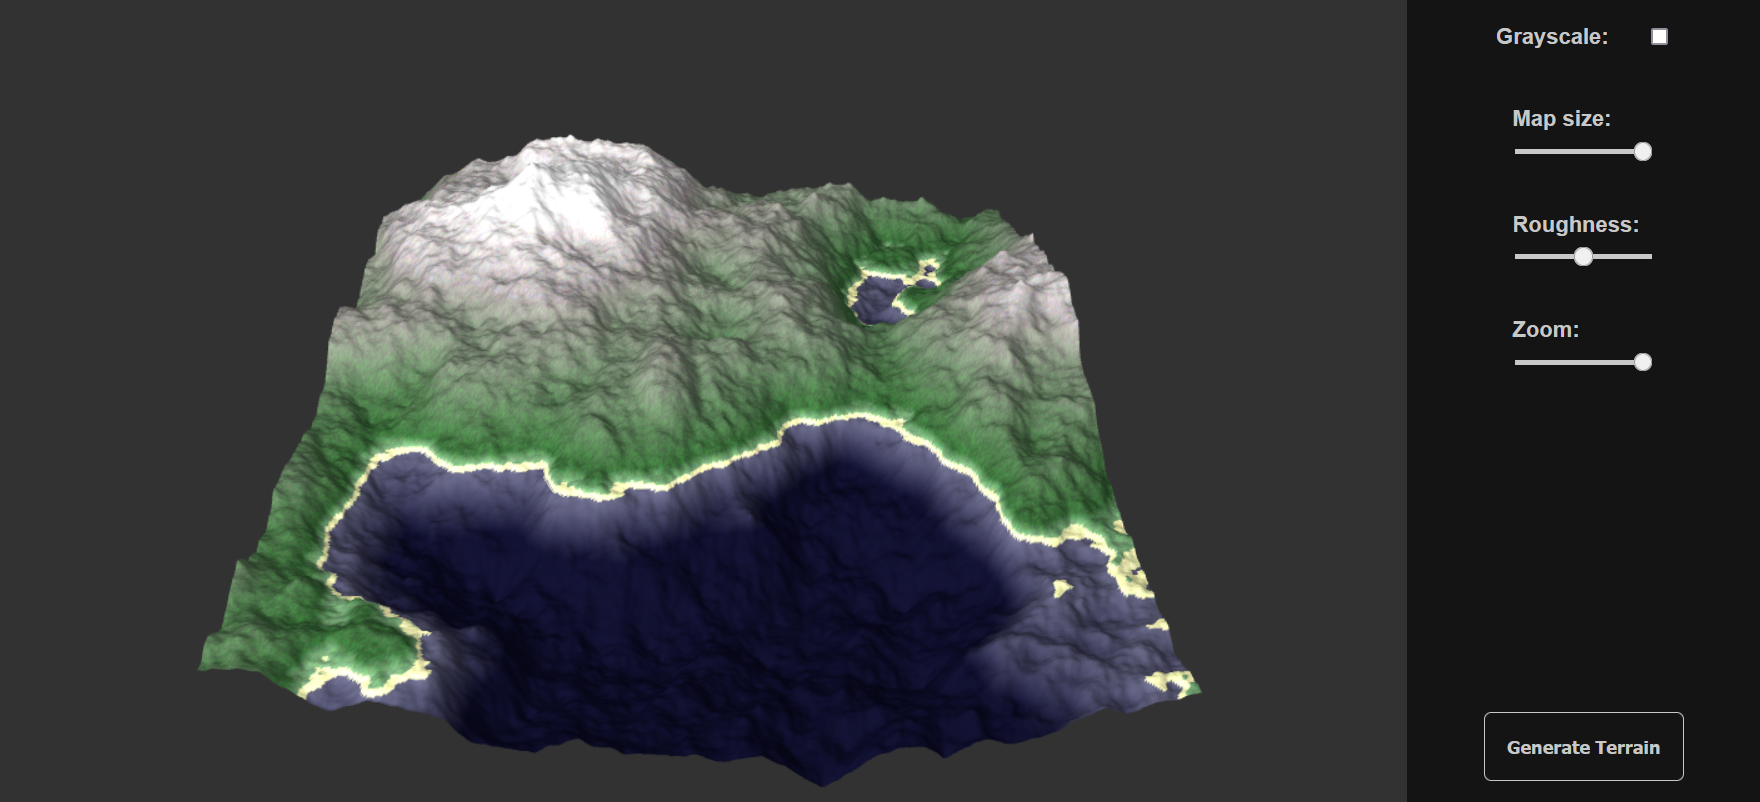
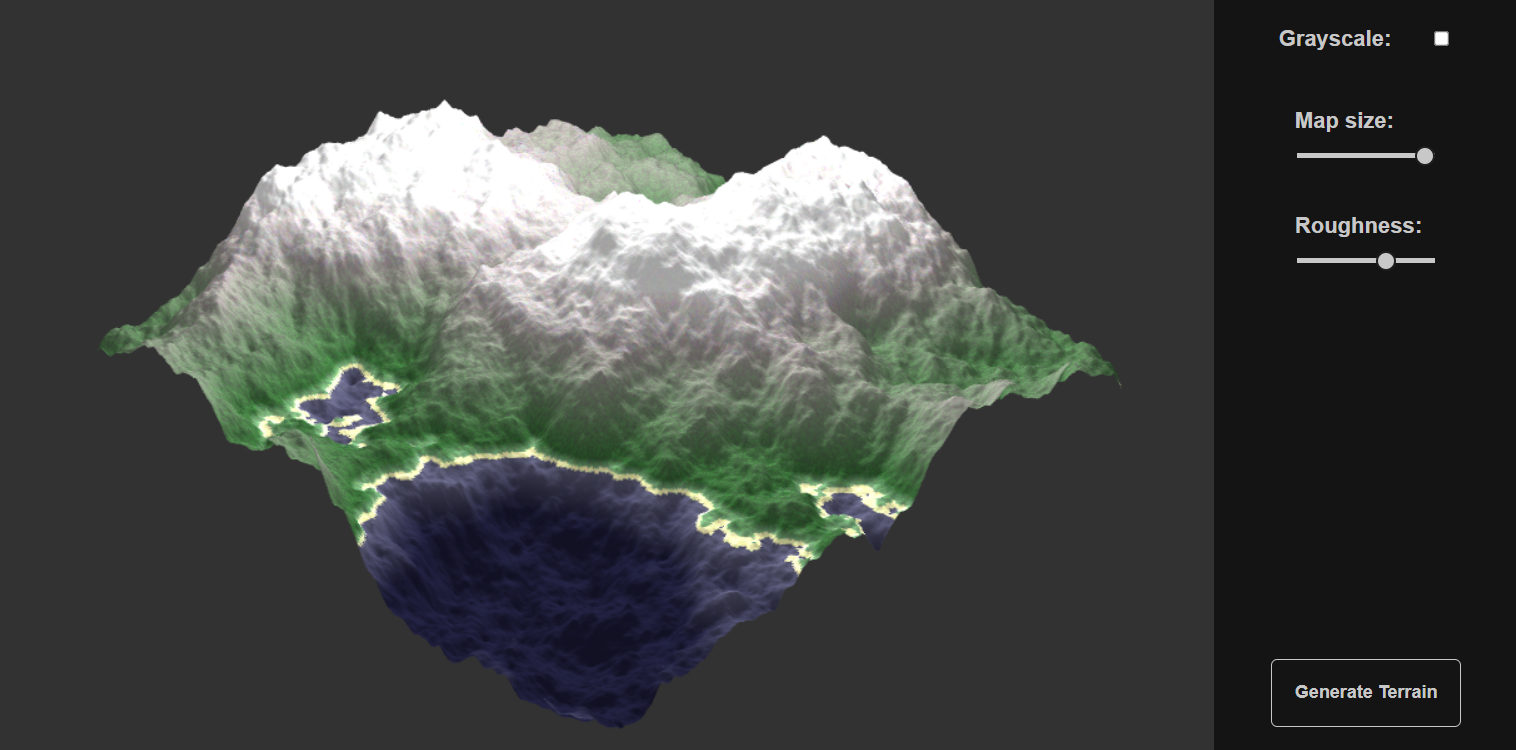
Add OrbitControls, changes to color and lighting

diff --git a/src/Components/Canvas.js b/src/Components/Canvas.js
@@ -2,14 +2,16 @@
 
 import React, {useState, useEffect, useRef} from 'react';
 import * as THREE from 'three';
+import { OrbitControls } from "three/examples/jsm/controls/OrbitControls";
 
 import Controls from './Controls';
 import Loading from './Loading';
 
-let light = new THREE.PointLight(0xFFFFFF, 1, 100000);
-light.position.set(290, 250, 690);
+let light = new THREE.PointLight(0xFFFFFF, 0.8, 0, 2);
+light.position.set(300, 100, 0);
 light.castShadow = true;
-let ambientLight = new THREE.AmbientLight((0xcccccc));
+
+let ambientLight = new THREE.AmbientLight((0xEEEEEE));
 
 let scene = new THREE.Scene();
 scene.add(light);
@@ -22,25 +24,19 @@ export default function Canvas(props) {
 
   let mount = useRef(null);
 
-  let camera = new THREE.PerspectiveCamera(props.zoom, mount.clientWidth / mount.clientHeight, 0.1, 9000);
+  let camera = new THREE.PerspectiveCamera(14, mount.clientWidth / mount.clientHeight, 0.1, 9000);
   camera.position.set( 400, -100, 740 );
   camera.up.set(1,0,0);
   camera.lookAt( 0, 0, 0 );
 
-
   let [grayscale, setGrayscale] = useState(false);
-  let [mouseIsDown, setMouseDown] = useState(false);
-  let [clickX, setClickX] = useState('');
-  let [rotationX, setRotationX] = useState(0);
   const [rotateMessage, displayRotateMessage] = useState(true);
   const [isLoading, setIsLoading] = useState(false);
-
 
   let renderScene = () => {
     renderer.render(scene, camera);
     setIsLoading(false);
   };
-
 
   let onResize = () => {
     camera.aspect = window.innerWidth / window.innerHeight;
@@ -48,30 +44,6 @@ export default function Canvas(props) {
     renderer.setSize(mount.current.clientWidth, mount.current.clientHeight);
     renderScene();
   };
-
-
-  let toggleMouseDown = (e) => {
-    setMouseDown(!mouseIsDown);
-    setClickX(e.clientX || e.targetTouches[0].clientX);
-  }
-
-  let toggleMouseUp = () => {
-    if (scene.children[2]) {
-      setMouseDown(false);
-      setClickX('');
-      setRotationX(scene.children[2].rotation.x || 0);
-    }
-  }
-
-  let rotateMap = (e) => {
-    if (mouseIsDown) {
-      if (scene.children[2]) {
-        displayRotateMessage(false);
-        scene.children[2].rotation.x = rotationX + ((clickX - (e.clientX || e.targetTouches[0].clientX))/500);
-        renderScene();
-      }
-    }
-  }
 
   let toggleGrayscale = () => {
     setGrayscale(!grayscale);
@@ -84,7 +56,6 @@ export default function Canvas(props) {
     }
     renderScene();
   }
-
 
   let createSquares = () => {
     if (props.points.length === 0) {
@@ -102,14 +73,14 @@ export default function Canvas(props) {
 
     for (let i = 0; i < map.attributes.position.array.length; i += 3) {
       map.attributes.position.array[i+2] = expandedArray[count].z;
-      if (expandedArray[count].z >= 68) { // mountain peak
-        colors.push((170+(Math.round(Math.random()*10)))/255);
-        colors.push((170+(Math.round(Math.random()*10)))/255);
-        colors.push((170+(Math.round(Math.random()*10)))/255);
+      if (expandedArray[count].z >= 74.5) { // mountain peak
+        colors.push((176+(Math.round(Math.random()*15)))/255);
+        colors.push((174+(Math.round(Math.random()*15)))/255);
+        colors.push((174+(Math.round(Math.random()*15)))/255);
       } else if (expandedArray[count].z >= 46) { // transition to mountain peak
-        colors.push(Math.round(109+(expandedArray[count].z - 46)*2.5+(Math.random()*20))/255);
-        colors.push(Math.round(105+(expandedArray[count].z - 46)*2.5+(Math.random()*20))/255);
-        colors.push(Math.round(105+(expandedArray[count].z - 46)*2.5+(Math.random()*20))/255);
+        colors.push(Math.round(109+(expandedArray[count].z - 48)*2.5+(Math.random()*20))/255);
+        colors.push(Math.round(105+(expandedArray[count].z - 48)*2.5+(Math.random()*20))/255);
+        colors.push(Math.round(105+(expandedArray[count].z - 48)*2.5+(Math.random()*20))/255);
       } else if (expandedArray[count].z > 4) { // grass
         colors.push((Math.round(30+expandedArray[count].z*1.85))/255);
         colors.push((Math.round(60+(expandedArray[count].z*.9))+(Math.round(Math.random()*20)))/255);
@@ -123,13 +94,13 @@ export default function Canvas(props) {
         colors.push((Math.round(180+(Math.random()*20)))/255);
         colors.push((Math.round(130+(Math.random()*20)))/255);
       } else if (expandedArray[count].z > -22) { // shallow water
-        colors.push((Math.round(70 + (expandedArray[count].z + 1.2)*3))/255);
-        colors.push((Math.round(70 + (expandedArray[count].z + 1.2)*3))/255);
-        colors.push((Math.round(90 + (expandedArray[count].z + 1.2)*3))/255);
+        colors.push((Math.round(70 + (expandedArray[count].z + 1.2)*2.5))/255);
+        colors.push((Math.round(70 + (expandedArray[count].z + 1.2)*2.5))/255);
+        colors.push((Math.round(90 + (expandedArray[count].z + 1.2)*2.5))/255);
       } else { // deep water
-        colors.push(8/255);
-        colors.push(8/255);
-        colors.push(28/255);
+        colors.push(18/255);
+        colors.push(18/255);
+        colors.push(38/255);
       }
       count += 1;
     }
@@ -170,33 +141,39 @@ export default function Canvas(props) {
       terrainMap.castShadow = true;
       terrainMap.position.set(0, 0, 0);
       scene.add(terrainMap);
-      terrainMap.rotation.x = rotationX;
       terrainMap.rotation.y = Math.PI / 2 ;
       onResize();
     }, 0);
   };
 
-
   useEffect(() => {
     renderer.setSize(mount.current.clientWidth, mount.current.clientHeight);
     window.addEventListener('resize', onResize);
     mount.current.appendChild(renderer.domElement);
+    renderer.domElement.addEventListener('click', () => displayRotateMessage(false));
+    renderer.domElement.addEventListener('touch', () => displayRotateMessage(false));
+
+    let controls = new OrbitControls(camera, renderer.domElement);
+    controls.maxPolarAngle = 1.5;
+    controls.minDistance = 100;
+    controls.maxDistance = 2100;
+    controls.rotateSpeed = 0.25;
+
+    function animate() {
+      controls.update();
+      window.requestAnimationFrame(animate);
+      renderer.render(scene, camera);
+    }
+    window.requestAnimationFrame(animate);
     generateTerrain();
   }, []);
 
-
-  useEffect(() => {
-    camera.fov = props.zoom;
-    onResize();
-  }, [camera, props.zoom]);
-
-
   return (
     <div id="generator">
-      <div id="canvas" ref={mount} onMouseDown={toggleMouseDown} onTouchStart={toggleMouseDown} onMouseUp={toggleMouseUp} onMouseOut={toggleMouseUp} onMouseMove={rotateMap} onTouchMove={rotateMap} onTouchEnd={toggleMouseUp}>
+      <div id="canvas" ref={mount}>
 
         <div className={`rotate-message-${rotateMessage}`}>
-          <h3>Click and drag to rotate map</h3>
+          <h3>Click and drag to rotate, pinch or mousewheel to zoom</h3>
         </div>
 
         <Loading isLoading={isLoading}/>
@@ -208,8 +185,6 @@ export default function Canvas(props) {
         setN={props.setN}
         roughness={props.roughness}
         setRoughness={props.setRoughness}
-        zoom={props.zoom}
-        setZoom={props.setZoom}
         toggleGrayscale={toggleGrayscale}
         generateTerrain={generateTerrain}
         isLoading={isLoading}

diff --git a/src/Components/DiamondSquare.js b/src/Components/DiamondSquare.js
@@ -5,9 +5,8 @@ import Canvas from './Canvas';
 
 export default function DiamondSquare() {
 
-  let [n, setN] = useState(7);
+  let [n, setN] = useState(8);
   let [roughness, setRoughness] = useState(.6);
-  let [zoom, setZoom] = useState(14);
   let [points, setPoints] = useState([]);
 
 
@@ -161,12 +160,10 @@ export default function DiamondSquare() {
     return <Canvas
               n={n}
               roughness={roughness}
-              zoom={zoom}
               points={points}
               diamondSquare={diamondSquare}
               setN={setN}
               setRoughness={setRoughness}
-              setZoom={setZoom}
                />
   } else {
     return null;

diff --git a/src/Components/Controls.js b/src/Components/Controls.js
@@ -19,11 +19,6 @@ const Controls = (props) => {
         <input type="range" min=".1" max=".7" value={props.roughness} step=".1" onChange={(e) => props.setRoughness(e.target.value)}/>
       </div>
 
-      <div id="zoom-slider" className="control-item">
-        <p>Zoom:</p>
-        <input type="range" min="2" max="30" value={props.zoom} onChange={(e) => props.setZoom(e.target.value)}/>
-      </div>
-
       <button id="generate-button" className="control-item" disabled={props.isLoading} onClick={props.generateTerrain}>Generate Terrain</button>
 
     </div>
